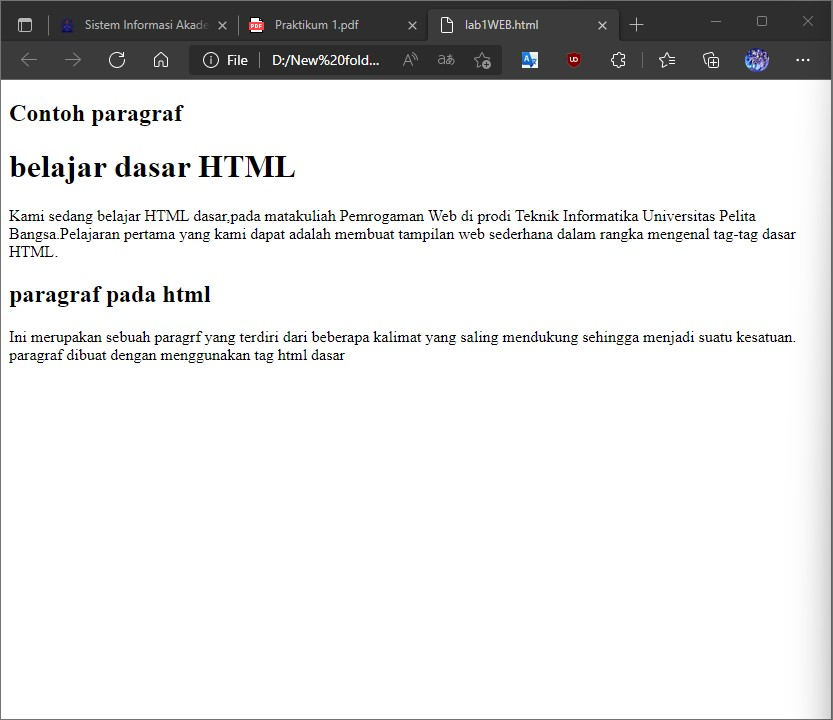
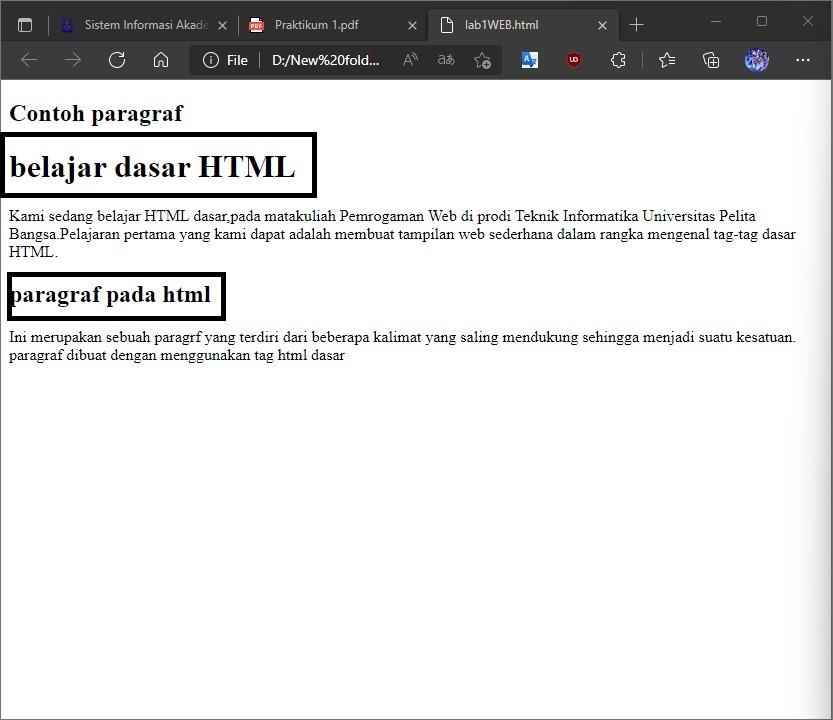
2

Changed region(s): [[0.0, 0.1833, 0.4058, 0.275], [0.0, 0.3667, 0.2809, 0.4583]]

diff --git a/README.md b/README.md
@@ -4,8 +4,39 @@
 # nama : Bagus tri handono - 312010170
 # kelas : 20.TI.B1
 -------------------------------------------------------------------
+untuk source code tersedia
+![source code utama](https://github.com/nanoetc/lab1web/blob/main/lab1WEB.html)
+![source code halaman2](https://github.com/nanoetc/lab1web/blob/main/halaman2.html)
+-------------------------------------------------------------------
 source code untuk pembuatan basic paragraf
 ![source code](https://github.com/nanoetc/lab1web/blob/main/paragraf%20standard.jpg)
 
 jika sudah coba buka file di browser dan kira-kira seperti gambar dibawah Ini
 ![gambar jadi](https://github.com/nanoetc/lab1web/blob/main/hasil%20paragraf%20standard.jpg)
+
+setelah itu kita coba tambahkan judul pada setiap paragraf
+![judul](https://github.com/nanoetc/lab1web/blob/main/menambahkan%20title%20paragraf.jpg)
+
+setelah kita tambahakan codenya maka akan terlihat ada sedikit perubahan pada title codenya
+![hasil judul](https://github.com/nanoetc/lab1web/blob/main/hasil%20menambahkan%20title%20paragraf.jpg)
+
+selanjutnya kita coba merubah format paragrafnya
+![rubah](https://github.com/nanoetc/lab1web/blob/main/soal%20no%203.jpg)
+
+jika sudah berubah maka akan terlihat perubahan yang terjadi
+![hasil no 3](https://github.com/nanoetc/lab1web/blob/main/hasil%20no%203.jpg)
+
+jika sudah berhasil mari kita coba menyisipkan gambar
+![gambar](https://github.com/nanoetc/lab1web/blob/main/tambah%20gambar.jpg)
+
+jika sudah mari kita coba refresh browser dan lihat perubahannya
+![hasil gambar](https://github.com/nanoetc/lab1web/blob/main/hasil%20tambah%20gambar.jpg)
+
+setelah itu coba kita tambahkan hyperlink
+![tambah](https://github.com/nanoetc/lab1web/blob/main/menuju%20link.jpg)
+
+jika berhasil maka akan bisa menuju link yang dituju
+![hasil](https://github.com/nanoetc/lab1web/blob/main/hasil%20menuju%20link.jpg)
+![hasil ke 2](https://github.com/nanoetc/lab1web/blob/main/jika%20berhasil.jpg)
+
+terima kasih
